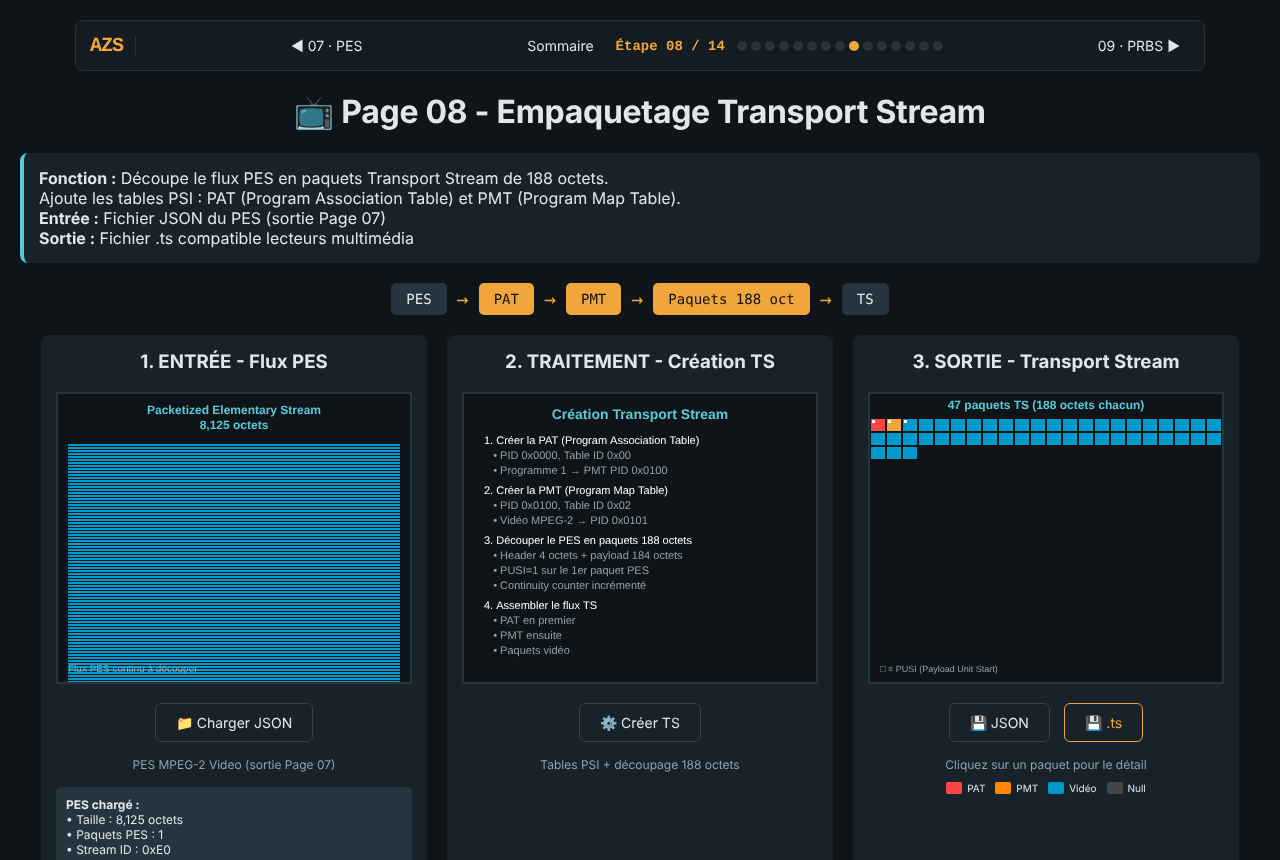
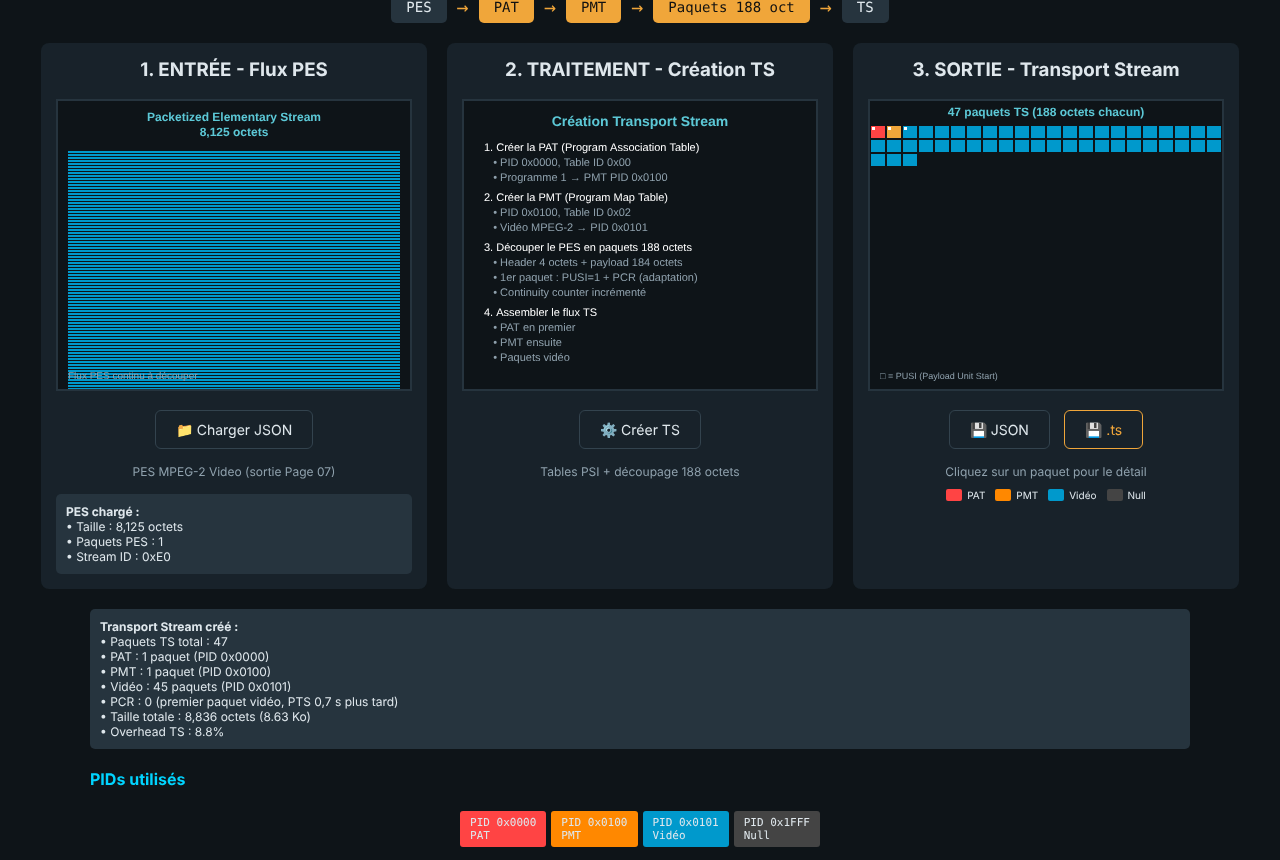
Horodatage ISO 13818-1 : PCR et PTS (pages 07 et 08 en 1.5)
- Page 07 : PTS = PCR initial + 0,7 s, pas de DTS (égal au PTS pour une
  image I), data_alignment_indicator, PTS 33 bits sans débordement 32 bits
- Page 08 : PCR dans l'adaptation field du premier paquet vidéo (PID 0x0101
  annoncé par la PMT), random_access_indicator
- Encadrés norme, README / LISEZMOI, captures

diff --git a/page08-ts.html b/page08-ts.html
@@ -6,7 +6,7 @@
   Objet      : Page 08 - Empaquetage Transport Stream
   Auteur     : Eric PERRET
   Date       : 2026-01-17
-  Version    : 1.4
+  Version    : 1.5
   Plateforme : HTML / CSS / JavaScript, page autonome, aucune librairie
   Licence    : CC BY-NC 4.0
   Historique : 1.1  2026-10-18  barre de navigation précédente / sommaire /
@@ -17,6 +17,9 @@
                      garde la sortie et l'étape suivante la charge d'office
                1.4  2026-10-18  export JSON des gros flux (conversion base64 par
                      morceaux : dépassement de pile au-delà de ~100 000 octets)
+               1.5  2026-10-18  PCR dans l'adaptation field du premier paquet vidéo
+                     (PID 0x0101 annoncé par la PMT), random_access_indicator ;
+                     ffmpeg trouve l'heure de début du flux
 ================================================================================
 -->
 <html lang="fr">
@@ -218,6 +221,10 @@
             font-family: monospace;
         }
     
+        .note-norme { background: #141c22; border: 1px solid #26343e; border-left: 3px solid #f0a63a; border-radius: 0 8px 8px 0; padding: 12px 15px; margin: -8px 0 20px; font-size: 13px; line-height: 1.55; color: #a9b7bf; }
+        .note-norme strong { color: #f0a63a; }
+        .note-norme b { color: #dfe7ec; }
+        .note-norme code { font-family: ui-monospace,"SFMono-Regular",Menlo,Consolas,"Liberation Mono",monospace; color: #5cc8d6; }
         /* ---------- charte AZS (www.azs.fr) ---------- */
         :root { color-scheme: dark; }
         body { font-family: system-ui,-apple-system,"Segoe UI",Roboto,"Helvetica Neue",Arial,sans-serif; }
@@ -271,6 +278,7 @@
         <strong>Entrée :</strong> Fichier JSON du PES (sortie Page 07)<br>
         <strong>Sortie :</strong> Fichier .ts compatible lecteurs multimédia
     </div>
+    <div class="note-norme"><strong>Horloge de référence conforme ISO 13818-1 (§2.4.3.4, §2.4.3.5) :</strong><br>• La PMT désigne le PID qui porte le <b>PCR</b> (Program Clock Reference) : ici la vidéo, PID <code>0x0101</code>. Le PCR recale l'horloge 27 MHz du décodeur sur celle de l'émetteur ; sans lui, le PTS de la page 07 n'a pas de référence.<br>• Le PCR est écrit dans l'<b>adaptation field</b> du premier paquet vidéo : base 33 bits à 90 kHz + extension 9 bits (PCR = base × 300 + extension). PCR initial = 0, PTS = 63 000 : l'image s'affiche 0,7 s après.<br>• <code>random_access_indicator</code> = 1 : ce paquet est un point d'entrée (Sequence Header + image I). En diffusion réelle, le PCR est répété au moins toutes les 100 ms.</div>
     
     <div class="pipeline">
         <span class="pipeline-step">PES</span>
@@ -420,6 +428,9 @@ Légende:
         const PID_PAT = 0x0000;
         const PID_PMT = 0x0100;
         const PID_VIDEO = 0x0101;
+        
+        // PCR initial (base 90 kHz) : le PTS de la page 07 vaut PCR_BASE_INIT + 63000 (0,7 s)
+        const PCR_BASE_INIT = 0;
         const PID_NULL = 0x1FFF;
         
         // Table IDs
@@ -594,7 +605,7 @@ Légende:
             ctx.fillText('3. Découper le PES en paquets 188 octets', 20, y);
             ctx.fillStyle = '#8fa1ad';
             ctx.fillText('   • Header 4 octets + payload 184 octets', 20, y + 15);
-            ctx.fillText('   • PUSI=1 sur le 1er paquet PES', 20, y + 30);
+            ctx.fillText('   • 1er paquet : PUSI=1 + PCR (adaptation)', 20, y + 30);
             ctx.fillText('   • Continuity counter incrémenté', 20, y + 45);
             
             y += 65;
@@ -657,6 +668,7 @@ Légende:
                 • PAT : 1 paquet (PID 0x0000)<br>
                 • PMT : 1 paquet (PID 0x0100)<br>
                 • Vidéo : ${videoPackets} paquets (PID 0x0101)<br>
+                • PCR : ${PCR_BASE_INIT * 300} (premier paquet vidéo, PTS 0,7 s plus tard)<br>
                 • Taille totale : ${totalSize.toLocaleString()} octets (${(totalSize / 1024).toFixed(2)} Ko)<br>
                 • Overhead TS : ${((totalSize - pesBinary.length) / pesBinary.length * 100).toFixed(1)}%
             `;
@@ -797,20 +809,13 @@ Légende:
         function createVideoPacket(pesOffset, isFirst) {
             const packet = new Array(TS_PACKET_SIZE).fill(0xFF);
             
+            // Premier paquet : adaptation field avec PCR (1 longueur + 1 flags + 6 PCR = 8 octets)
+            const pcrBytes = isFirst ? 8 : 0;
             const remainingPES = pesBinary.length - pesOffset;
-            const maxPayload = TS_PACKET_SIZE - TS_HEADER_SIZE;
-            let payloadSize = Math.min(remainingPES, maxPayload);
-            let adaptationFieldLength = 0;
-            
-            // Si c'est le dernier paquet et qu'il ne remplit pas, ajouter adaptation field
-            if (payloadSize < maxPayload && remainingPES <= maxPayload) {
-                adaptationFieldLength = maxPayload - payloadSize;
-                if (adaptationFieldLength === 1) {
-                    // Besoin d'au moins 2 octets pour adaptation field
-                    adaptationFieldLength = 2;
-                    payloadSize = maxPayload - 2;
-                }
-            }
+            const maxPayload = TS_PACKET_SIZE - TS_HEADER_SIZE - pcrBytes;
+            const payloadSize = Math.min(remainingPES, maxPayload);
+            // Dernier paquet incomplet : bourrage dans l'adaptation field
+            const adaptationFieldLength = pcrBytes + (maxPayload - payloadSize);
             
             // Header TS
             packet[0] = TS_SYNC_BYTE;
@@ -826,13 +831,19 @@ Légende:
             
             let offset = 4;
             
-            // Adaptation field si nécessaire
+            // Adaptation field (longueur totale = adaptationFieldLength, octet de longueur compris)
             if (hasAdaptation) {
                 packet[offset++] = adaptationFieldLength - 1; // adaptation_field_length
                 if (adaptationFieldLength > 1) {
-                    packet[offset++] = 0x00; // flags (pas de PCR, etc.)
+                    if (isFirst) {
+                        packet[offset++] = 0x50; // random_access_indicator=1, PCR_flag=1
+                        const pcr = encodePCR(PCR_BASE_INIT, 0);
+                        for (let i = 0; i < 6; i++) packet[offset++] = pcr[i];
+                    } else {
+                        packet[offset++] = 0x00; // flags (pas de PCR)
+                    }
                     // Stuffing bytes (déjà 0xFF)
-                    offset += adaptationFieldLength - 2;
+                    offset = 4 + adaptationFieldLength;
                 }
             }
             
@@ -840,6 +851,21 @@ Légende:
             for (let i = 0; i < payloadSize; i++) {
                 packet[offset + i] = pesBinary[pesOffset + i];
             }
+            
+            const fields = {
+                'sync_byte': '0x47',
+                'PID': '0x0101 (Video)',
+                'PUSI': isFirst ? '1 (PES start)' : '0 (continuation)',
+                'AFC': hasAdaptation ? '11 (adaptation + payload)' : '01 (payload only)',
+                'continuity_counter': cc,
+                'adaptation_length': adaptationFieldLength
+            };
+            if (isFirst) {
+                fields['random_access'] = '1 (point d\'accès : Sequence Header)';
+                fields['PCR'] = `base ${PCR_BASE_INIT} × 300 + ext 0 = ${PCR_BASE_INIT * 300} (27 MHz, ${(PCR_BASE_INIT / 90000).toFixed(3)} s)`;
+            }
+            fields['payload_size'] = payloadSize;
+            fields['PES_offset'] = pesOffset;
             
             return {
                 index: tsPackets.length,
@@ -851,17 +877,22 @@ Légende:
                 payloadSize: payloadSize,
                 adaptationFieldLength: adaptationFieldLength,
                 pesOffset: pesOffset,
-                fields: {
-                    'sync_byte': '0x47',
-                    'PID': '0x0101 (Video)',
-                    'PUSI': isFirst ? '1 (PES start)' : '0 (continuation)',
-                    'AFC': hasAdaptation ? '11 (adaptation + payload)' : '01 (payload only)',
-                    'continuity_counter': cc,
-                    'adaptation_length': adaptationFieldLength,
-                    'payload_size': payloadSize,
-                    'PES_offset': pesOffset
-                }
+                pcr: isFirst ? PCR_BASE_INIT * 300 : null,
+                fields: fields
             };
+        }
+        
+        // PCR : base 33 bits (90 kHz) + 6 bits réservés '111111' + extension 9 bits (27 MHz)
+        function encodePCR(base, ext) {
+            const hi = Math.floor(base / 2);            // bits 32..1 de la base
+            return [
+                Math.floor(hi / 16777216) & 0xFF,
+                Math.floor(hi / 65536) & 0xFF,
+                Math.floor(hi / 256) & 0xFF,
+                hi & 0xFF,
+                ((base % 2) << 7) | 0x7E | ((ext >> 8) & 0x01),
+                ext & 0xFF
+            ];
         }
         
         // ============================================================
@@ -1044,6 +1075,8 @@ Légende:
                     packetSize: TS_PACKET_SIZE,
                     packetCount: tsPackets.length,
                     totalBytes: tsBinary.length,
+                    pcrPid: PID_VIDEO,
+                    pcrBaseInit: PCR_BASE_INIT,
                     pids: {
                         PAT: PID_PAT,
                         PMT: PID_PMT,

diff --git a/page07-pes.html b/page07-pes.html
@@ -6,7 +6,7 @@
   Objet      : Page 07 - Empaquetage PES
   Auteur     : Eric PERRET
   Date       : 2026-01-17
-  Version    : 1.4
+  Version    : 1.5
   Plateforme : HTML / CSS / JavaScript, page autonome, aucune librairie
   Licence    : CC BY-NC 4.0
   Historique : 1.1  2026-10-18  barre de navigation précédente / sommaire /
@@ -17,6 +17,9 @@
                      garde la sortie et l'étape suivante la charge d'office
                1.4  2026-10-18  export JSON des gros flux (conversion base64 par
                      morceaux : dépassement de pile au-delà de ~100 000 octets)
+               1.5  2026-10-18  horodatage conforme ISO 13818-1 : PTS = PCR initial
+                     + 0,7 s (délai de décodage), data_alignment_indicator,
+                     PTS 33 bits sans débordement des opérateurs 32 bits
 ================================================================================
 -->
 <html lang="fr">
@@ -215,6 +218,10 @@
             overflow-x: auto;
         }
     
+        .note-norme { background: #141c22; border: 1px solid #26343e; border-left: 3px solid #f0a63a; border-radius: 0 8px 8px 0; padding: 12px 15px; margin: -8px 0 20px; font-size: 13px; line-height: 1.55; color: #a9b7bf; }
+        .note-norme strong { color: #f0a63a; }
+        .note-norme b { color: #dfe7ec; }
+        .note-norme code { font-family: ui-monospace,"SFMono-Regular",Menlo,Consolas,"Liberation Mono",monospace; color: #5cc8d6; }
         /* ---------- charte AZS (www.azs.fr) ---------- */
         :root { color-scheme: dark; }
         body { font-family: system-ui,-apple-system,"Segoe UI",Roboto,"Helvetica Neue",Arial,sans-serif; }
@@ -268,6 +275,7 @@
         <strong>Entrée :</strong> Fichier JSON de l'ES (sortie Page 06)<br>
         <strong>Sortie :</strong> Fichier JSON des paquets PES avec headers et timestamps
     </div>
+    <div class="note-norme"><strong>Horodatage conforme ISO 13818-1 (§2.4.3.7, §2.7.5) :</strong><br>• Le <b>PTS</b> (horloge 90 kHz) dit au décodeur quand afficher l'image. Il est fixé à <code>PCR initial + 0,7 s</code> = 0 + 63 000 : le décodeur dispose de 0,7 s pour remplir son tampon et décoder l'image avant de l'afficher. Le PCR (horloge de référence 27 MHz) est inséré en page 08.<br>• Pas de <b>DTS</b> : la norme interdit de le transmettre quand il est égal au PTS, ce qui est le cas d'une image I sans réordonnancement.<br>• <code>data_alignment_indicator</code> = 1 sur le premier paquet : il commence par un start code (Sequence Header).</div>
     
     <div class="pipeline">
         <span class="pipeline-step">Elementary Stream</span>
@@ -413,6 +421,10 @@
         
         // PTS clock: 90 kHz
         const PTS_CLOCK = 90000;
+        
+        // PCR initial (page 08) et délai de décodage : PTS = PCR_BASE_INIT + PTS_DELAY
+        const PCR_BASE_INIT = 0;
+        const PTS_DELAY = 63000;   // 0,7 s à 90 kHz
         
         // Taille max d'un paquet PES (0 = illimité pour vidéo, mais on limite pour l'exemple)
         const MAX_PES_PAYLOAD = 65000;  // Proche de 65535 max
@@ -621,7 +633,7 @@
                 const payloadSize = Math.min(remainingBytes, MAX_PES_PAYLOAD);
                 
                 // Calculer le PTS pour ce paquet (on a une seule frame, donc un seul PTS)
-                const pts = packetIndex === 0 ? 0 : null; // PTS seulement sur le premier paquet
+                const pts = packetIndex === 0 ? PCR_BASE_INIT + PTS_DELAY : null; // PTS seulement sur le premier paquet
                 
                 // Construire le paquet PES
                 const packet = buildPESPacket(
@@ -656,7 +668,8 @@
                 • Taille PES totale : ${totalPESSize.toLocaleString()} octets<br>
                 • Overhead headers : ${overhead} octets (${(overhead / esBinary.length * 100).toFixed(2)}%)<br>
                 • Stream ID : 0xE0 (Video)<br>
-                • PTS base : 0 (début du flux)
+                • PTS : ${PCR_BASE_INIT + PTS_DELAY} (${((PCR_BASE_INIT + PTS_DELAY) / PTS_CLOCK).toFixed(3)} s = PCR initial + 0,7 s)<br>
+                • DTS : non transmis (égal au PTS, image I)
             `;
         }
         
@@ -687,7 +700,8 @@
             
             // 4. Optional PES header
             // Byte 1: '10' + scrambling(2) + priority(1) + alignment(1) + copyright(1) + original(1)
-            header.push(0x80); // 10 000000 = no scrambling, no priority, etc.
+            // data_alignment_indicator (bit 2) = 1 si le paquet commence par un start code
+            header.push(index === 0 ? 0x84 : 0x80);
             
             // Byte 2: PTS_DTS_flags(2) + ESCR(1) + ES_rate(1) + DSM(1) + additional(1) + CRC(1) + extension(1)
             if (hasPTS) {
@@ -726,7 +740,8 @@
                     'packet_start_code': '00 00 01',
                     'stream_id': `0x${streamId.toString(16).toUpperCase()} (${streamId === 0xE0 ? 'Video' : 'Audio'})`,
                     'PES_packet_length': pesPacketLength > 65535 ? '0 (unbounded)' : pesPacketLength,
-                    'PTS_DTS_flags': hasPTS ? '10 (PTS only)' : '00 (none)',
+                    'data_alignment': index === 0 ? '1 (commence par un start code)' : '0',
+                    'PTS_DTS_flags': hasPTS ? '10 (PTS seul, DTS = PTS)' : '00 (none)',
                     'PTS': hasPTS ? `${pts} (${(pts / PTS_CLOCK).toFixed(3)}s)` : 'N/A',
                     'header_data_length': hasPTS ? 5 : 0,
                     'payload_size': payload.length
@@ -738,8 +753,9 @@
             // PTS sur 33 bits, encodé sur 5 octets avec marqueurs
             // Format: '0010' PTS[32:30] '1' PTS[29:15] '1' PTS[14:0] '1'
             
-            const pts32_30 = (pts >> 30) & 0x07;
-            const pts29_15 = (pts >> 15) & 0x7FFF;
+            // 33 bits : Math.floor plutôt que >> (opérateurs limités à 32 bits)
+            const pts32_30 = Math.floor(pts / 1073741824) & 0x07;
+            const pts29_15 = Math.floor(pts / 32768) & 0x7FFF;
             const pts14_0 = pts & 0x7FFF;
             
             const byte0 = 0x21 | (pts32_30 << 1); // 0010 xxx1
@@ -1003,6 +1019,8 @@
                     totalBytes: pesBinary.length,
                     streamId: STREAM_ID_VIDEO,
                     ptsClock: PTS_CLOCK,
+                    pcrBaseInit: PCR_BASE_INIT,
+                    ptsDelay: PTS_DELAY,
                     packets: pesPackets.map(p => ({
                         index: p.index,
                         streamId: p.streamId,

diff --git a/LISEZMOI.md b/LISEZMOI.md
@@ -31,8 +31,8 @@ Aucune librairie, aucune installation. Interfaces en français.
 | 04 | ▶ [Zigzag](https://ericperret.github.io/JPEG2DVB/page04-zigzag.html) | Parcours zigzag des 64 coefficients | blocs → vecteurs de 64 | [voir](captures/page04-zigzag.png) |
 | 05 | ▶ [RLE + Huffman](https://ericperret.github.io/JPEG2DVB/page05-rle-huffman.html) | Paires (run, level), tables MPEG-2 B.12 / B.13 (DC) et B.14 (AC), échappement, prédicteurs DC par composante | vecteurs → bitstreams | [voir](captures/page05-rle-huffman.png) |
 | 06 | ▶ [Elementary Stream](https://ericperret.github.io/JPEG2DVB/page06-elementary-stream.html) | Sequence, GOP, Picture headers, slices MPEG-2 ; matrice et code d'échelle de l'étape 03 ; décodable par ffmpeg / VLC | bitstreams → fichier .es | [voir](captures/page06-elementary-stream.png) |
-| 07 | ▶ [PES](https://ericperret.github.io/JPEG2DVB/page07-pes.html) | Paquets PES, horodatage PTS | ES → PES | [voir](captures/page07-pes.png) |
-| 08 | ▶ [Transport Stream](https://ericperret.github.io/JPEG2DVB/page08-ts.html) | Paquets de 188 octets, tables PAT et PMT | PES → fichier .ts lisible | [voir](captures/page08-ts.png) |
+| 07 | ▶ [PES](https://ericperret.github.io/JPEG2DVB/page07-pes.html) | Paquets PES, PTS = PCR initial + 0,7 s (pas de DTS pour une image I), alignement des données | ES → PES | [voir](captures/page07-pes.png) |
+| 08 | ▶ [Transport Stream](https://ericperret.github.io/JPEG2DVB/page08-ts.html) | Paquets de 188 octets, tables PAT et PMT, PCR dans le premier paquet vidéo | PES → fichier .ts lisible | [voir](captures/page08-ts.png) |
 | 09 | ▶ [PRBS](https://ericperret.github.io/JPEG2DVB/page09-prbs.html) | Dispersion d'énergie, polynôme 1 + X¹⁴ + X¹⁵, super-trame de 8 paquets | TS → TS randomisé | [voir](captures/page09-prbs.png) |
 | 10 | ▶ [Reed-Solomon](https://ericperret.github.io/JPEG2DVB/page10-reed-solomon.html) | RS(204,188) raccourci de RS(255,239), GF(2⁸) 0x11D, 8 octets corrigibles | 188 → 204 octets | [voir](captures/page10-reed-solomon.png) |
 | 11 | ▶ [Entrelacement](https://ericperret.github.io/JPEG2DVB/page11-interleaving.html) | Entrelaceur convolutif de Forney, I = 12, M = 17 | blocs RS → flux entrelacé | [voir](captures/page11-interleaving.png) |
@@ -55,6 +55,7 @@ Aucune librairie, aucune installation. Interfaces en français.
 | 2026-10-18 | Pages 1.3 : passage automatique entre les étapes — suivante ▶ garde la sortie dans le navigateur (session en cours) et l'étape suivante la charge d'office ; traitement toujours au clic ; sorties identiques à la chaîne fichier par fichier |
 | 2026-10-18 | Pages 03, 04, 06 (1.4) : encadrés sur les écarts avec MPEG-2 (quantification séparée du DC, formule AC et quantiser_scale, balayage alterné, matrices transmises en ordre zigzag dans le Sequence Header) |
 | 2026-10-18 | Conformité MPEG-2 (pages 02, 03, 05, 06 → 1.5) : DCT sans centrage et en ordre naturel (les coefficients étaient transposés), quantification normative, tables VLC complètes B.12 / B.13 / B.14 avec prédicteurs DC par composante, matrice et code d'échelle écrits dans le flux. L'Elementary Stream et le Transport Stream se décodent désormais avec ffmpeg (PSNR 35,7 dB au facteur 50 ; 30,7 à 48,4 dB du facteur 10 à 100). Pages 07 à 12 (1.4) : export JSON des gros flux corrigé |
+| 2026-10-18 | Pages 07 et 08 (1.5) : horodatage ISO 13818-1 — PCR dans l'adaptation field du premier paquet vidéo (PID annoncé par la PMT), PTS = PCR + 0,7 s, indicateurs data_alignment et random_access, PTS 33 bits sans débordement 32 bits |
 
 ## Licence
 

diff --git a/README.md b/README.md
@@ -31,8 +31,8 @@ No library, no installation. User interfaces in French.
 | 04 | ▶ [Zigzag](https://ericperret.github.io/JPEG2DVB/page04-zigzag.html) | Zigzag scan of the 64 coefficients | blocks → 64-value vectors | [view](captures/page04-zigzag.png) |
 | 05 | ▶ [RLE + Huffman](https://ericperret.github.io/JPEG2DVB/page05-rle-huffman.html) | (run, level) pairs, MPEG-2 tables B.12 / B.13 (DC) and B.14 (AC), escape, per-component DC predictors | vectors → bitstreams | [view](captures/page05-rle-huffman.png) |
 | 06 | ▶ [Elementary Stream](https://ericperret.github.io/JPEG2DVB/page06-elementary-stream.html) | MPEG-2 sequence, GOP, picture headers, slices; quantiser matrix and scale code from step 03; decodable by ffmpeg / VLC | bitstreams → .es file | [view](captures/page06-elementary-stream.png) |
-| 07 | ▶ [PES](https://ericperret.github.io/JPEG2DVB/page07-pes.html) | PES packets, PTS timestamps | ES → PES | [view](captures/page07-pes.png) |
-| 08 | ▶ [Transport Stream](https://ericperret.github.io/JPEG2DVB/page08-ts.html) | 188-byte packets, PAT and PMT tables | PES → playable .ts file | [view](captures/page08-ts.png) |
+| 07 | ▶ [PES](https://ericperret.github.io/JPEG2DVB/page07-pes.html) | PES packets, PTS = initial PCR + 0.7 s (no DTS for an I picture), data alignment | ES → PES | [view](captures/page07-pes.png) |
+| 08 | ▶ [Transport Stream](https://ericperret.github.io/JPEG2DVB/page08-ts.html) | 188-byte packets, PAT and PMT tables, PCR in the first video packet | PES → playable .ts file | [view](captures/page08-ts.png) |
 | 09 | ▶ [PRBS](https://ericperret.github.io/JPEG2DVB/page09-prbs.html) | Energy dispersal, polynomial 1 + X¹⁴ + X¹⁵, 8-packet super-frame | TS → randomised TS | [view](captures/page09-prbs.png) |
 | 10 | ▶ [Reed-Solomon](https://ericperret.github.io/JPEG2DVB/page10-reed-solomon.html) | RS(204,188) shortened from RS(255,239), GF(2⁸) 0x11D, 8 correctable bytes | 188 → 204 bytes | [view](captures/page10-reed-solomon.png) |
 | 11 | ▶ [Interleaving](https://ericperret.github.io/JPEG2DVB/page11-interleaving.html) | Forney convolutional interleaver, I = 12, M = 17 | RS blocks → interleaved stream | [view](captures/page11-interleaving.png) |
@@ -55,6 +55,7 @@ No library, no installation. User interfaces in French.
 | 2026-10-18 | Pages 1.3: automatic hand-over between steps — next ▶ keeps the output in the browser (current session) and the next step loads it itself; processing stays manual; outputs identical to the file-by-file chain |
 | 2026-10-18 | Pages 03, 04, 06 (1.4): boxed notes on the differences with MPEG-2 (separate DC quantisation, AC formula and quantiser_scale, alternate scan, matrices sent in zigzag order in the sequence header) |
 | 2026-10-18 | MPEG-2 conformance (pages 02, 03, 05, 06 → 1.5): DCT without centring and in natural order (coefficients were transposed), normative quantisation, complete VLC tables B.12 / B.13 / B.14 with per-component DC predictors, quantiser matrix and scale code written in the stream. The elementary stream and the transport stream now decode with ffmpeg (35.7 dB PSNR at quality 50; 30.7 to 48.4 dB from quality 10 to 100). Pages 07–12 (1.4): JSON export of large streams fixed |
+| 2026-10-18 | Pages 07 and 08 (1.5): ISO 13818-1 timing — PCR in the adaptation field of the first video packet (PID announced by the PMT), PTS = PCR + 0.7 s, data_alignment and random_access indicators, 33-bit PTS without 32-bit overflow |
 
 ## License
 
